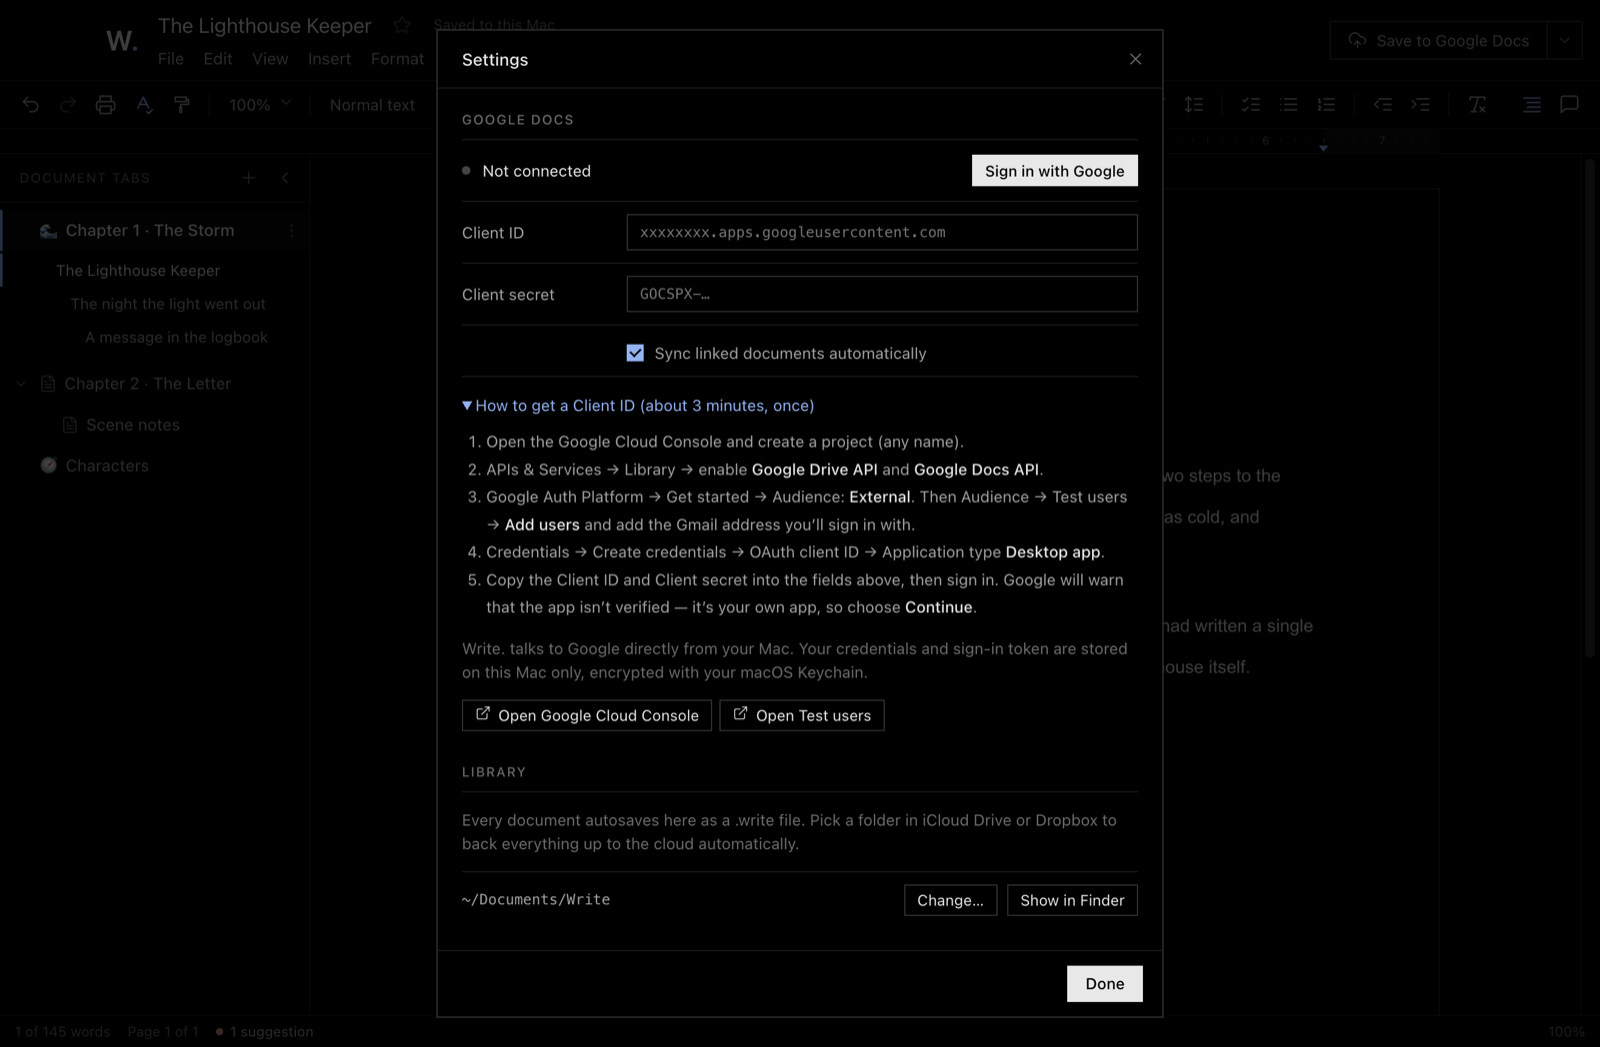
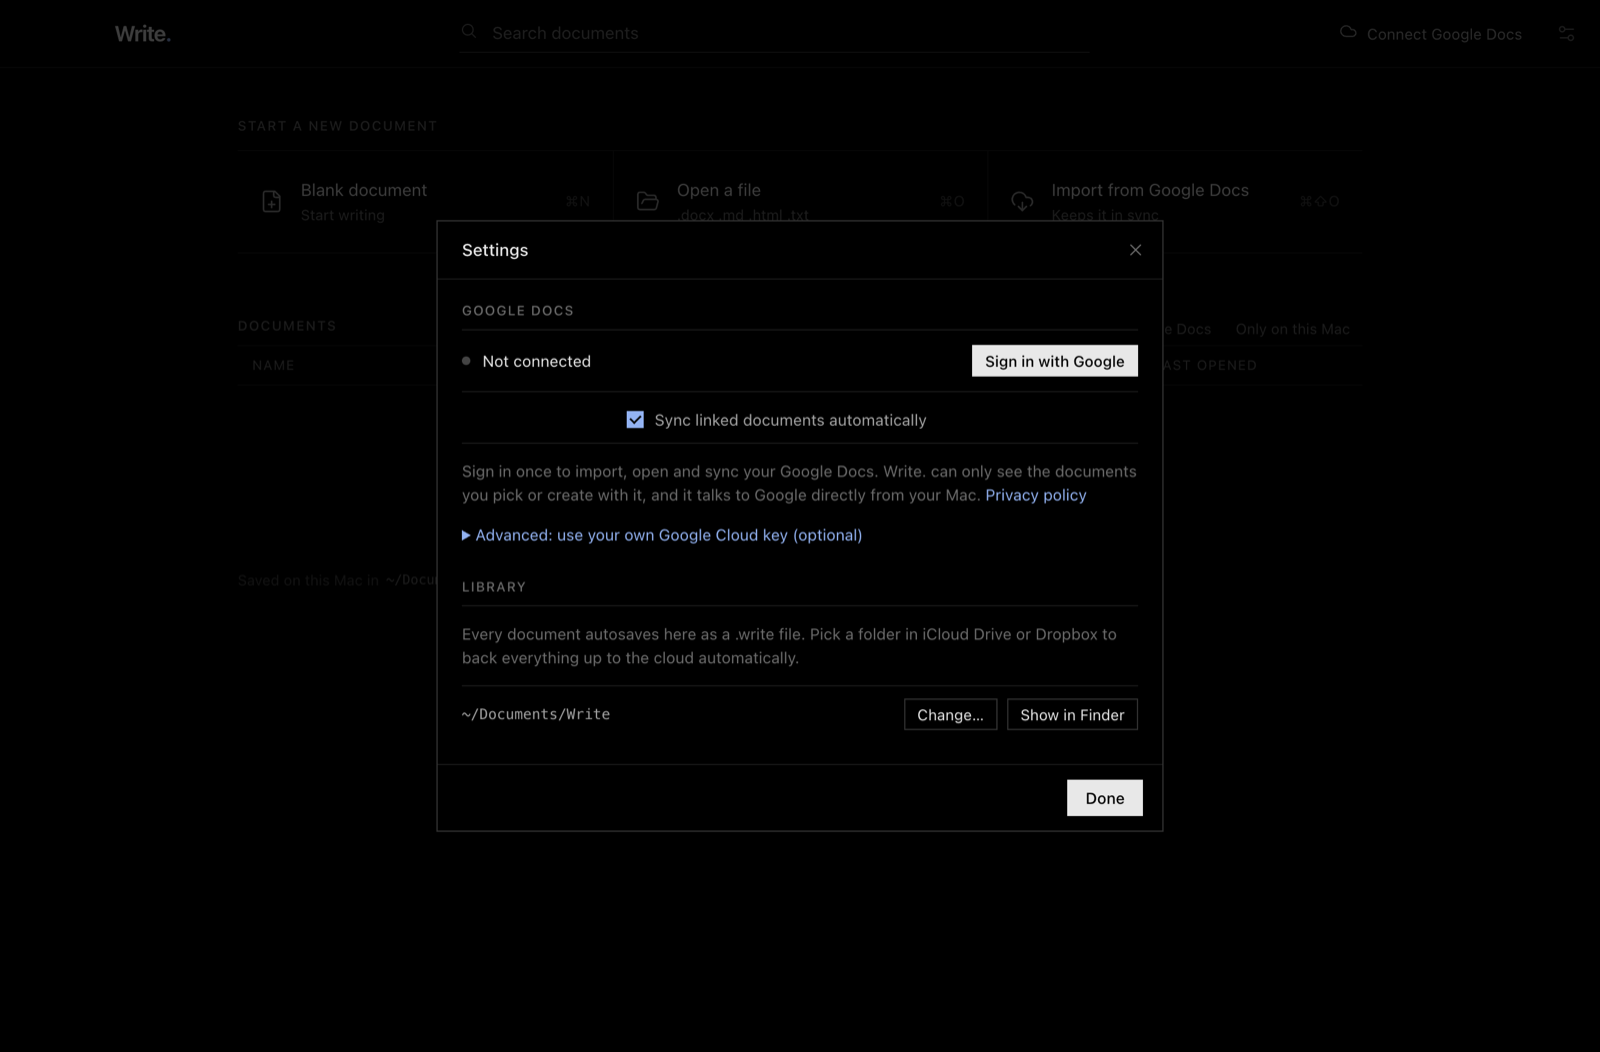
Write. 1.1.0: one-click Google sign-in, import with Google's file picker

diff --git a/docs/privacy.html b/docs/privacy.html
@@ -55,7 +55,7 @@
     <p><strong>Limited Use.</strong> Write.'s use and transfer of information received from Google APIs to any other app will adhere to the <a href="https://developers.google.com/terms/api-services-user-data-policy">Google API Services User Data Policy</a>, including the Limited Use requirements.</p>
 
     <h2>The file picker page</h2>
-    <p>When you import or link a Google Doc, Write. opens <code>subhodeep2002.github.io/Write/picker.html</code> in your web browser, which shows Google's file picker. Write. hands the page a short-lived Google access token in the part of the address after <code>#</code>, which browsers do not send to websites. The page uses the token only to show the picker, removes it from the address bar straight away, and sends the IDs and names of the documents you choose back to Write. on your own Mac (<code>127.0.0.1</code>). Nothing is stored on that page.</p>
+    <p>When you import or link a Google Doc, Write. opens <code>subhodeep2002.github.io/Write/picker.html</code> in Google Chrome (or Microsoft Edge), which shows Google's file picker. Write. hands the page a short-lived Google access token in the part of the address after <code>#</code>, which browsers do not send to websites. The page uses the token only to show the picker, removes it from the address bar straight away, and sends the IDs and names of the documents you choose back to Write. on your own Mac (<code>127.0.0.1</code>). Nothing is stored on that page.</p>
     <p>This website is hosted by GitHub Pages. GitHub may record standard technical information about visits, such as IP addresses, as described in the <a href="https://docs.github.com/site-policy/privacy-policies/github-general-privacy-statement">GitHub Privacy Statement</a>. The website uses no cookies and no analytics of its own.</p>
 
     <h2>Keeping and deleting your data</h2>

diff --git a/docs/index.html b/docs/index.html
@@ -53,10 +53,11 @@
       <h2>Google Docs sync (optional)</h2>
       <ol class="steps">
         <li>In Write., open <b>Settings</b> and click <b>Sign in with Google</b>. Your browser opens; choose your account and allow access.</li>
-        <li>Click <b>Import from Google Docs</b>. Google's own file picker opens in your browser. Choose the documents you want.</li>
+        <li>Click <b>Import from Google Docs</b>. Google's own file picker opens in Google Chrome. Choose the documents you want.</li>
         <li>That's it. Imported documents keep all their tabs and stay linked: edits in Write. sync back to Google Docs, and you can pause syncing any time.</li>
       </ol>
       <p class="note" style="margin-top:28px">Write. can only see the Google Docs you pick or create with it, never the rest of your Drive. It talks to Google directly from your Mac; there are no Write. servers. Read the <a href="privacy.html">privacy policy</a>.</p>
+      <p class="small" style="text-align:left">Importing needs <a href="https://www.google.com/chrome/">Google Chrome</a> (or Microsoft Edge), because Google's file picker doesn't work in Safari.</p>
     </div>
   </section>
 </main>

diff --git a/README.md b/README.md
@@ -5,7 +5,7 @@
 <p align="center"><b>A dark, distraction-free document editor for your Mac that works like Google Docs — even offline.</b><br>
 Free to use. Powered by Formula0ne.</p>
 
-<p align="center"><a href="https://github.com/subhodeep2002/Write/releases/latest"><b>⬇ Download Write. for Mac</b></a></p>
+<p align="center"><a href="https://github.com/subhodeep2002/Write/releases/latest"><b>⬇ Download Write. for Mac</b></a> · <a href="https://subhodeep2002.github.io/Write/">Website</a> · <a href="https://subhodeep2002.github.io/Write/privacy.html">Privacy</a></p>
 
 ![Write. editing a document with tabs](docs/screenshots/editor.png)
 
@@ -52,10 +52,10 @@ Macs with an Intel processor aren't supported yet.
 ## Download and install
 
 **Step 1 — Download.**
-Go to the **[Releases page](https://github.com/subhodeep2002/Write/releases/latest)**. Under **Assets**, click the file named **`Write-1.0.0-arm64.dmg`**. It's about 140 MB and goes into your **Downloads** folder.
+Go to the **[Releases page](https://github.com/subhodeep2002/Write/releases/latest)**. Under **Assets**, click the file named **`Write-1.1.0-arm64.dmg`**. It's about 140 MB and goes into your **Downloads** folder.
 
 **Step 2 — Open the file.**
-Double-click **`Write-1.0.0-arm64.dmg`** in Downloads. A window like this appears:
+Double-click **`Write-1.1.0-arm64.dmg`** in Downloads. A window like this appears:
 
 ![The Write. installer window](docs/screenshots/installer.png)
 
@@ -154,48 +154,43 @@ Write. keeps earlier versions of your document automatically. Open **File → Ve
 
 **You don't need a Google account to use Write.** Skip this section if you only want to write on your Mac.
 
-If you'd like Write. to work with your Google Docs, you need to give it permission once. Google asks every app to have its own "key", so you create a free one for yourself in Google's console. It takes about 5 minutes.
+### Connect your Google account (once)
 
-### Part A — Create your free key in Google Cloud
-
-1. Go to **[console.cloud.google.com](https://console.cloud.google.com/)** and sign in with your Google account. Accept the terms if asked.
-2. **Create a project.** Click the project picker at the top of the page, then **New project**. Name it `Write` and click **Create**. Make sure the new project is selected at the top.
-3. **Turn on two Google APIs.** Open the menu ☰ → **APIs & Services → Library**.
-   - Search for **Google Drive API**, open it, and click **Enable**.
-   - Go back, search for **Google Docs API**, open it, and click **Enable**.
-4. **Set up the sign-in screen.** Open ☰ → **Google Auth Platform** (it may be called **OAuth consent screen**) and click **Get started**.
-   - App name: `Write`. User support email: your email.
-   - Audience: **External**.
-   - Contact email: your email. Agree to the policy, then click **Create**.
-5. **Add yourself as a tester.** Still in Google Auth Platform, open **Audience → Test users → Add users**. Enter the Gmail address you'll sign in with, and click **Save**.
-   > ⚠ If you skip this step, Google shows *"Access blocked … Error 403: access_denied"*.
-6. **Create the key.** Open **Clients** (or **APIs & Services → Credentials → Create credentials → OAuth client ID**).
-   - Application type: **Desktop app**. Name: `Write Mac`. Click **Create**.
-   - Google shows a **Client ID** and a **Client secret**. **Copy both now**, or click **Download JSON**. Google may not show the secret again later.
-
-### Part B — Connect Write.
-
-7. In Write., open **Settings** (press **⌘ ,**). Under **Google Docs**, paste the **Client ID** and the **Client secret**.
+1. In Write., open **Settings** (press **⌘ ,**) and click **Sign in with Google**.
 
    ![Google Docs settings in Write.](docs/screenshots/google-docs-settings.png)
 
-8. Click **Sign in with Google**. Your web browser opens:
-   - Choose your Google account.
-   - Google says *"Google hasn't verified this app"*. That's expected, because it's your own key. Click **Continue**.
-   - Allow access to Google Drive, then return to Write. when the page says *Signed in*.
-9. The first time Write. uses your Google sign-in, macOS may ask for your **Keychain** password. Write. stores your sign-in securely in your Keychain. Type your Mac password and click **Always Allow**.
+2. Your web browser opens. Choose your Google account and click **Continue**. Return to Write. when the page says *Signed in*.
+3. The first time Write. uses your Google sign-in, macOS may ask for your **Keychain** password. Write. keeps your sign-in safe in your Keychain. Type your Mac password and click **Always Allow**.
+
+That's all. No keys, no setup.
 
 ### Using sync
 
-- **Bring in a Google Doc:** on the home screen, click **Import from Google Docs** (or press **⇧ ⌘ O**). All of its tabs come along, and it stays linked.
+- **Bring in Google Docs:** on the home screen, click **Import from Google Docs** (or press **⇧ ⌘ O**). Google's file picker opens in **Google Chrome**. Choose one or more documents and click **Select**. They come into Write. with all their tabs, and they stay linked.
+  > Importing needs [Google Chrome](https://www.google.com/chrome/) (or Microsoft Edge), signed in to the same Google account. Google's file picker doesn't work in Safari, because Safari blocks the Google cookies it needs. You can keep using Safari for everything else.
 - **Send a document to Google Docs:** in a document, click **Save to Google Docs** at the top right.
 - **Automatic sync:** linked documents sync a few seconds after you stop typing. To sync only when you decide, click **⌄** next to the sync button and choose **Pause auto-sync**. Then click **Sync now** whenever you want.
 - If a document was changed in both places, Write. asks which version to keep. Nothing is thrown away: older versions stay in version history.
 
 > **Good to know:**
-> - Keep your Client secret private, and don't share it with anyone.
-> - While your Google project is in "Testing" mode, Google asks you to sign in again every 7 days. Just click **Sign in with Google** in Settings when that happens.
+> - Write. can only see the Google Docs you choose or create with it, never the rest of your Drive. It talks to Google directly from your Mac. See the [privacy policy](https://subhodeep2002.github.io/Write/privacy.html).
 > - Text, styles, lists and tabs sync both ways. Images and tables come in from Google Docs, but new images and table edits made in Write. stay on your Mac.
+> - You can remove Write.'s access at any time in your [Google Account](https://myaccount.google.com/connections).
+
+<details>
+<summary>For advanced users: use your own Google Cloud key instead</summary>
+
+Most people don't need this. With your own key, Write. lists all your Google Docs itself instead of using Google's file picker.
+
+1. In the [Google Cloud console](https://console.cloud.google.com/), create a project and enable the **Google Drive API** and the **Google Docs API** (☰ → **APIs & Services → Library**).
+2. Open **Google Auth Platform** → **Get started**. Audience: **External**. Then **Audience → Test users → Add users** and add the Gmail address you'll sign in with.
+3. Open **Clients → Create client**. Application type: **Desktop app**. Copy the **Client ID** and **Client secret**.
+4. In Write., open **Settings**, click **Advanced: use your own Google Cloud key**, paste both, and click **Sign in with Google**. Google says the app isn't verified because it's your own key; click **Continue**.
+
+Keep your Client secret private. While your project is in "Testing" mode, Google asks you to sign in again every 7 days.
+
+</details>
 
 ---
 
@@ -223,8 +218,10 @@ Your documents never leave your Mac unless you turn on Google Docs sync.
 | What you see | What to do |
 | --- | --- |
 | *"Write." can't be opened* or *Apple could not verify…* | Follow [Opening it for the first time](#opening-it-for-the-first-time). |
-| *"Access blocked: Write has not completed the Google verification process" (Error 403)* | Add your Gmail address under **Audience → Test users** (Part A, step 5). |
-| *"Turn on the Google Docs API…"* | Enable the **Google Docs API** in your Google Cloud project (Part A, step 3). |
+| *"Write. needs your permission to open this Google Doc"* | Click **Give access**, then select the document in Google's file picker. This can happen once for documents linked with an older version of Write. |
+| *"Importing needs Google Chrome"* | Install [Google Chrome](https://www.google.com/chrome/) and sign in to your Google account in it, then click **Import from Google Docs** again. |
+| The picker in Chrome says *"Can't access your Google Account"* | Sign in to Chrome with the same Google account you connected in Write. If it still appears, allow third-party cookies for `docs.google.com` in Chrome's settings. |
+| *"Access blocked … Error 403"* or *"Turn on the Google Docs API…"* (own key only) | See the advanced steps under [Google Docs sync](#google-docs-sync-optional): add yourself as a test user and enable both APIs. |
 | macOS asks for your **Keychain** password | Type your Mac password and click **Always Allow**. |
 | The app won't open on an older Mac | Write. needs an Apple Silicon Mac (M1 or newer) with macOS 12 or later. |
 
@@ -240,5 +237,7 @@ Releases: **https://github.com/subhodeep2002/Write/releases**
 Write. is **free to download and use**. You may share the link to this page, but you may not sell, change or redistribute the app. The source code is private. See [LICENSE](LICENSE) for the full terms.
 
 Write. is built with open-source software, listed in [THIRD_PARTY_NOTICES.md](THIRD_PARTY_NOTICES.md).
+
+Read the [privacy policy](https://subhodeep2002.github.io/Write/privacy.html) and the [terms of use](https://subhodeep2002.github.io/Write/terms.html).
 
 Google Docs and Google Drive are trademarks of Google LLC. Write. is an independent app and is not made by, affiliated with or endorsed by Google.
